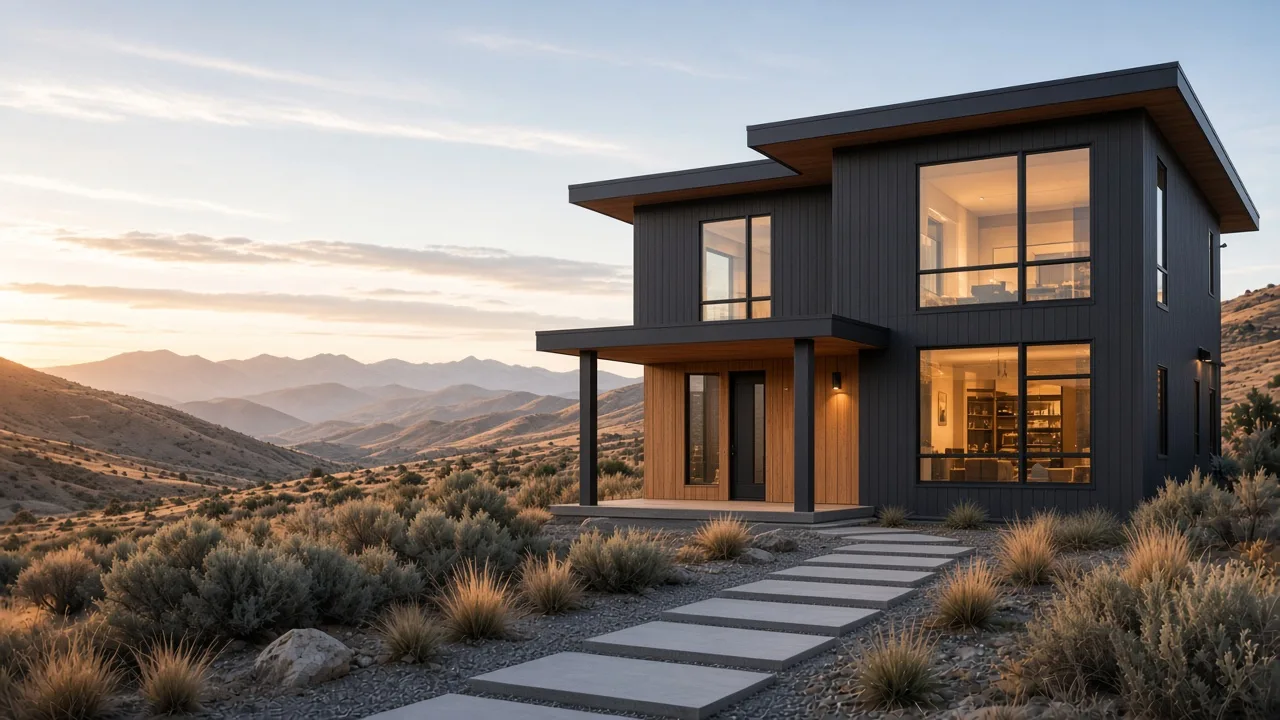
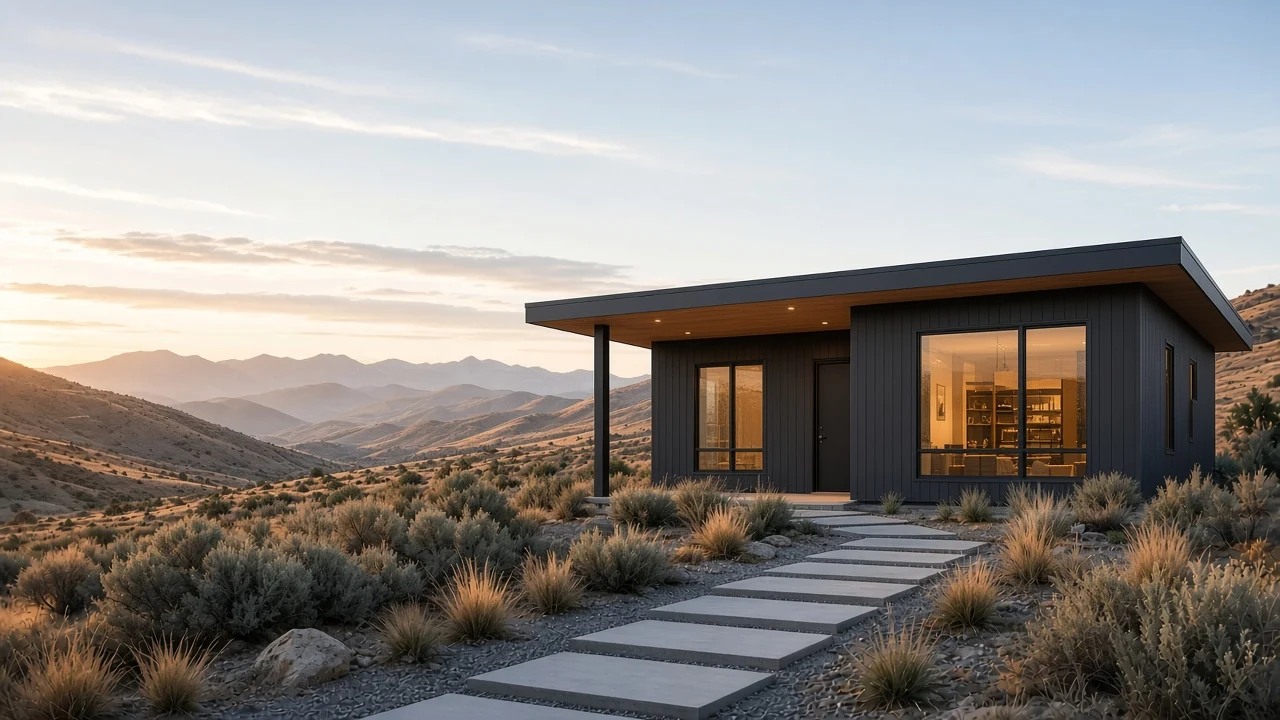
Lock featured house set and stop cropping family photos
Use the rebuilt full-family 1x1 for founder/About with object-fit
contain, fill the 2025 Treasure Valley move, restore the featured
project section, and regenerate drifted great-room and ADU shots to
match the locked charcoal exterior.

diff --git a/app/HomePageClient.tsx b/app/HomePageClient.tsx
@@ -254,6 +254,81 @@ export default function Home() {
           </div>
         </section>
 
+        <section id="featured-project" className="featured-project section-pad" aria-labelledby="featured-project-heading">
+          <Reveal className="content-shell featured-project-intro">
+            <div>
+              <p className="eyebrow">Featured design · Boise foothills</p>
+              <h2 id="featured-project-heading">
+                One home.
+                <br />
+                Every room connected.
+              </h2>
+            </div>
+            <p>
+              A modern Treasure Valley custom home shown as one continuous property: the same charcoal exterior, oak
+              floors, and foothills light run from the entry through the kitchen, great room, primary bath, and matching
+              ADU. Representative design.
+            </p>
+          </Reveal>
+          <div className="content-shell featured-project-grid" role="list">
+            <div className="featured-project-shot" role="listitem">
+              <img
+                src={FEATURED_BOISE_EXTERIOR.src}
+                alt={FEATURED_BOISE_EXTERIOR.alt}
+                width={FEATURED_BOISE_EXTERIOR.width}
+                height={FEATURED_BOISE_EXTERIOR.height}
+                loading="lazy"
+                decoding="async"
+              />
+              <span>Exterior</span>
+            </div>
+            <div className="featured-project-shot" role="listitem">
+              <img
+                src={FEATURED_BOISE_GREAT_ROOM.src}
+                alt={FEATURED_BOISE_GREAT_ROOM.alt}
+                width={FEATURED_BOISE_GREAT_ROOM.width}
+                height={FEATURED_BOISE_GREAT_ROOM.height}
+                loading="lazy"
+                decoding="async"
+              />
+              <span>Great room</span>
+            </div>
+            <div className="featured-project-shot" role="listitem">
+              <img
+                src={FEATURED_BOISE_KITCHEN.src}
+                alt={FEATURED_BOISE_KITCHEN.alt}
+                width={FEATURED_BOISE_KITCHEN.width}
+                height={FEATURED_BOISE_KITCHEN.height}
+                loading="lazy"
+                decoding="async"
+              />
+              <span>Kitchen</span>
+            </div>
+            <div className="featured-project-shot" role="listitem">
+              <img
+                src={FEATURED_BOISE_BATHROOM.src}
+                alt={FEATURED_BOISE_BATHROOM.alt}
+                width={FEATURED_BOISE_BATHROOM.width}
+                height={FEATURED_BOISE_BATHROOM.height}
+                loading="lazy"
+                decoding="async"
+              />
+              <span>Primary bath</span>
+            </div>
+            <div className="featured-project-shot featured-project-wide" role="listitem">
+              <img
+                src={FEATURED_BOISE_ADU.src}
+                alt={FEATURED_BOISE_ADU.alt}
+                width={FEATURED_BOISE_ADU.width}
+                height={FEATURED_BOISE_ADU.height}
+                loading="lazy"
+                decoding="async"
+              />
+              <span>Matching ADU</span>
+            </div>
+          </div>
+        </section>
+
         <section id="companies" className="companies section-pad">
           <Reveal className="content-shell">
             <div className="companies-heading">
@@ -457,6 +532,32 @@ export default function Home() {
                 that connect every P5 company.
               </p>
             </div>
+            <div className="standard-photos" aria-hidden="true">
+              <img
+                src={FEATURED_BOISE_GREAT_ROOM.src}
+                alt=""
+                width={FEATURED_BOISE_GREAT_ROOM.width}
+                height={FEATURED_BOISE_GREAT_ROOM.height}
+                loading="lazy"
+                decoding="async"
+              />
+              <img
+                src={FEATURED_BOISE_KITCHEN.src}
+                alt=""
+                width={FEATURED_BOISE_KITCHEN.width}
+                height={FEATURED_BOISE_KITCHEN.height}
+                loading="lazy"
+                decoding="async"
+              />
+              <img
+                src={FEATURED_BOISE_BATHROOM.src}
+                alt=""
+                width={FEATURED_BOISE_BATHROOM.width}
+                height={FEATURED_BOISE_BATHROOM.height}
+                loading="lazy"
+                decoding="async"
+              />
+            </div>
             <div className="standard-grid">
               <Standard number="01" title="Clarity before commitment">
                 Share your plans or choose “Just contact me” in the{" "}
@@ -492,10 +593,10 @@ export default function Home() {
           <Reveal className="content-shell who-hire-grid">
             <img
               className="who-hire-photo"
-              src="/images/about/nick-perkins-portrait-crop.webp"
-              alt="Nick Perkins, founder of P5 Home Co"
-              width={600}
-              height={600}
+              src="/images/about/perkins-family-meridian-idaho-1x1.webp"
+              alt="Nick Perkins with his wife and five children at a pumpkin patch in Meridian, Idaho"
+              width={2048}
+              height={2048}
               loading="lazy"
               decoding="async"
             />
@@ -503,8 +604,9 @@ export default function Home() {
               <p className="eyebrow">Who you are hiring</p>
               <h2 id="who-hire-heading">Nick Perkins, founder</h2>
               <p>
-                Construction project manager, bachelor&apos;s in Construction, more than a decade of custom homes,
-                remodels and developments. Husband, father of five, Meridian.
+                Construction project manager, bachelor&apos;s degree in Construction with an emphasis in Project
+                Management, more than a decade of custom homes, remodels and developments. Husband, father of five,
+                Meridian.
               </p>
               <p className="who-hire-quote">Work hard. Keep your word. Treat people right.</p>
               <Link className="text-link" href="/about">
@@ -547,6 +649,17 @@ export default function Home() {
               </div>
             </div>
           </Reveal>
+        </section>
+
+        <section className="scroll-photo" aria-label="Treasure Valley home photography">
+          <img
+            src={FEATURED_BOISE_EXTERIOR.src}
+            alt={FEATURED_BOISE_EXTERIOR.alt}
+            width={FEATURED_BOISE_EXTERIOR.width}
+            height={FEATURED_BOISE_EXTERIOR.height}
+            loading="lazy"
+            decoding="async"
+          />
         </section>
 
         <section id="faq" className="faq section-pad" aria-labelledby="faq-heading">

diff --git a/app/globals.css b/app/globals.css
@@ -595,8 +595,20 @@ body[data-p5-chat-open] .p5-mobile-actionbar { display: none !important; }
 .kitchen-example-steps p { margin: 0; color: var(--ink-2); }
 .kitchen-example-close { margin: 0; font-family: var(--font-display); font-size: 22px; font-weight: 500; }
 
-.who-hire-grid { display: grid; grid-template-columns: minmax(0, 280px) minmax(0, 1fr); gap: 48px; align-items: center; }
-.who-hire-photo { width: 100%; max-width: 280px; aspect-ratio: 1; object-fit: cover; border-radius: 4px; }
+.who-hire-grid { display: grid; grid-template-columns: minmax(0, 420px) minmax(0, 1fr); gap: 40px; align-items: center; }
+/* People photos: never cover-crop. Show the full frame on every breakpoint. */
+.who-hire-photo,
+.about-people-photo,
+.about-family-photo img,
+.about-beach img {
+  display: block;
+  width: 100%;
+  height: auto;
+  max-width: 100%;
+  object-fit: contain;
+  object-position: center;
+}
+.who-hire-photo { max-width: 420px; border-radius: 4px; background: var(--bone); }
 .who-hire-quote { font-family: var(--font-display); font-size: 24px; font-weight: 500; line-height: 1.3; }
 
 .about-page { background: var(--paper); }
@@ -609,8 +621,8 @@ body[data-p5-chat-open] .p5-mobile-actionbar { display: none !important; }
 .about-answer { margin: 0 0 28px; font-size: 19px; line-height: 1.55; max-width: 42rem; }
 .about-hero-actions { display: flex; flex-wrap: wrap; gap: 22px; align-items: center; }
 .about-trust-line { margin: 18px 0 0; font-size: 13px; color: #6c756e; }
-.about-family-photo { margin: 0 auto 24px; padding: 0 0 24px; }
-.about-family-photo img { width: 100%; height: auto; object-fit: cover; aspect-ratio: 4 / 3; }
+.about-family-photo { margin: 0 auto 24px; padding: 0 0 24px; max-width: 920px; }
+.about-family-photo img { margin-inline: auto; background: var(--bone); }
 .about-section { padding: 36px 0; max-width: 820px; }
 .about-section h2 { margin: 0 0 16px; font-family: var(--font-display); font-size: clamp(28px, 3.5vw, 36px); font-weight: 500; letter-spacing: -.02em; }
 .about-section p, .about-company-list { margin: 0; font-size: 17px; line-height: 1.65; }
@@ -621,7 +633,7 @@ body[data-p5-chat-open] .p5-mobile-actionbar { display: none !important; }
 .about-closing h2 { margin: 0 0 16px; font-family: var(--font-display); font-size: clamp(28px, 3.5vw, 36px); font-weight: 500; }
 .about-closing-actions { display: flex; flex-wrap: wrap; gap: 18px; align-items: center; margin-top: 28px; }
 .about-beach { margin: 0; }
-.about-beach img { width: 100%; aspect-ratio: 1; object-fit: cover; }
+.about-beach img { background: var(--bone); }
 .about-beach figcaption { margin-top: 10px; font-size: 13px; color: #6c756e; letter-spacing: .04em; }
 
 @media (max-width: 900px) {

diff --git a/app/about/AboutClient.tsx b/app/about/AboutClient.tsx
@@ -72,10 +72,10 @@ export default function AboutClient({
 
         <figure className="about-family-photo content-shell">
           <img
-            src="/images/about/perkins-family-meridian-idaho.webp"
-            alt="Nick Perkins with his wife and five children at a pumpkin patch"
-            width={2560}
-            height={1920}
+            src="/images/about/perkins-family-meridian-idaho-1x1.webp"
+            alt="Nick Perkins with his wife and five children at a pumpkin patch in Meridian, Idaho"
+            width={2048}
+            height={2048}
             fetchPriority="high"
             decoding="async"
           />
@@ -94,10 +94,10 @@ export default function AboutClient({
           <p>
             Construction has been part of my life for as long as I can remember. I grew up around the industry, and what
             started as something familiar became a career I have spent more than a decade building. I earned a
-            bachelor&apos;s degree in Construction with an emphasis in Project Management at [university], [year], and
-            went on to lead everything from small home renovations to multimillion-dollar custom homes and residential
-            developments. I started P5 Home Co in Colorado in 2020 and moved the family and the company to the Treasure
-            Valley in [year], where we live in Meridian.
+            bachelor&apos;s degree in Construction with an emphasis in Project Management, and went on to lead everything
+            from small home renovations to multimillion-dollar custom homes and residential developments. I started P5
+            Home Co in Colorado in 2020 and moved the family and the company to the Treasure Valley in 2025, where we
+            live in Meridian.
           </p>
         </section>
 
@@ -182,6 +182,7 @@ export default function AboutClient({
                 height={1365}
                 loading="lazy"
                 decoding="async"
+                className="about-people-photo"
               />
               <figcaption>The Perkins family</figcaption>
             </figure>

diff --git a/app/about/page.tsx b/app/about/page.tsx
@@ -31,10 +31,10 @@ export const metadata: Metadata = withBrandPageMetadata(
       locale: "en_US",
       images: [
         {
-          url: "/images/about/perkins-family-meridian-idaho.webp",
-          width: 2560,
-          height: 1920,
-          alt: "Nick Perkins with his wife and five children at a pumpkin patch",
+          url: "/images/about/perkins-family-meridian-idaho-1x1.webp",
+          width: 2048,
+          height: 2048,
+          alt: "Nick Perkins with his wife and five children at a pumpkin patch in Meridian, Idaho",
         },
       ],
     },
@@ -42,7 +42,7 @@ export const metadata: Metadata = withBrandPageMetadata(
       card: "summary_large_image",
       title,
       description,
-      images: ["/images/about/perkins-family-meridian-idaho.webp"],
+      images: ["/images/about/perkins-family-meridian-idaho-1x1.webp"],
     },
     robots: { index: true, follow: true },
   },
@@ -86,7 +86,7 @@ const aboutSchema = {
       },
       description:
         "Founder of P5 Home Co. Construction project manager, husband, and father of five in Meridian, Idaho.",
-      image: `${siteUrl}/images/about/nick-perkins-portrait-crop.webp`,
+      image: `${siteUrl}/images/about/perkins-family-meridian-idaho-1x1.webp`,
     },
     {
       "@type": "BreadcrumbList",

diff --git a/app/imageVariants.ts b/app/imageVariants.ts
@@ -41,7 +41,7 @@ export const FEATURED_BOISE_GREAT_ROOM = {
   src: "/images/featured-boise-great-room.webp",
   width: 1280,
   height: 720,
-  alt: "Great room with oak floors, a stone fireplace, and floor-to-ceiling windows overlooking the Idaho foothills",
+  alt: "Great room with oak floors, a stone fireplace, and black-framed windows to the Idaho foothills, matching the charcoal flat-roof exterior",
   srcSet: "/images/featured-boise-great-room.webp 1280w",
   sizes: "(min-width: 1101px) 50vw, 100vw",
 } as const satisfies ServedImage;
@@ -68,7 +68,7 @@ export const FEATURED_BOISE_ADU = {
   src: "/images/featured-boise-adu.webp",
   width: 1280,
   height: 720,
-  alt: "Matching charcoal board-and-batten ADU with a dark metal roof and covered entry in a Boise backyard",
+  alt: "Matching single-story charcoal board-and-batten ADU with a dark metal roof and wood porch in the Boise foothills",
   srcSet: "/images/featured-boise-adu.webp 1280w",
   sizes: "(min-width: 1101px) 50vw, 100vw",
 } as const satisfies ServedImage;

diff --git a/app/site.ts b/app/site.ts
@@ -100,7 +100,7 @@ export const faqs = [
   },
   {
     q: "How long has P5 been operating?",
-    a: "P5 Home Co was founded in Colorado in 2020 and moved the family and the company to the Treasure Valley in [year]. We live and work from Meridian, Idaho.",
+    a: "P5 Home Co was founded in Colorado in 2020 and moved the family and the company to the Treasure Valley in 2025. We live and work from Meridian, Idaho.",
   },
   {
     q: "How do I start an ADU project?",
